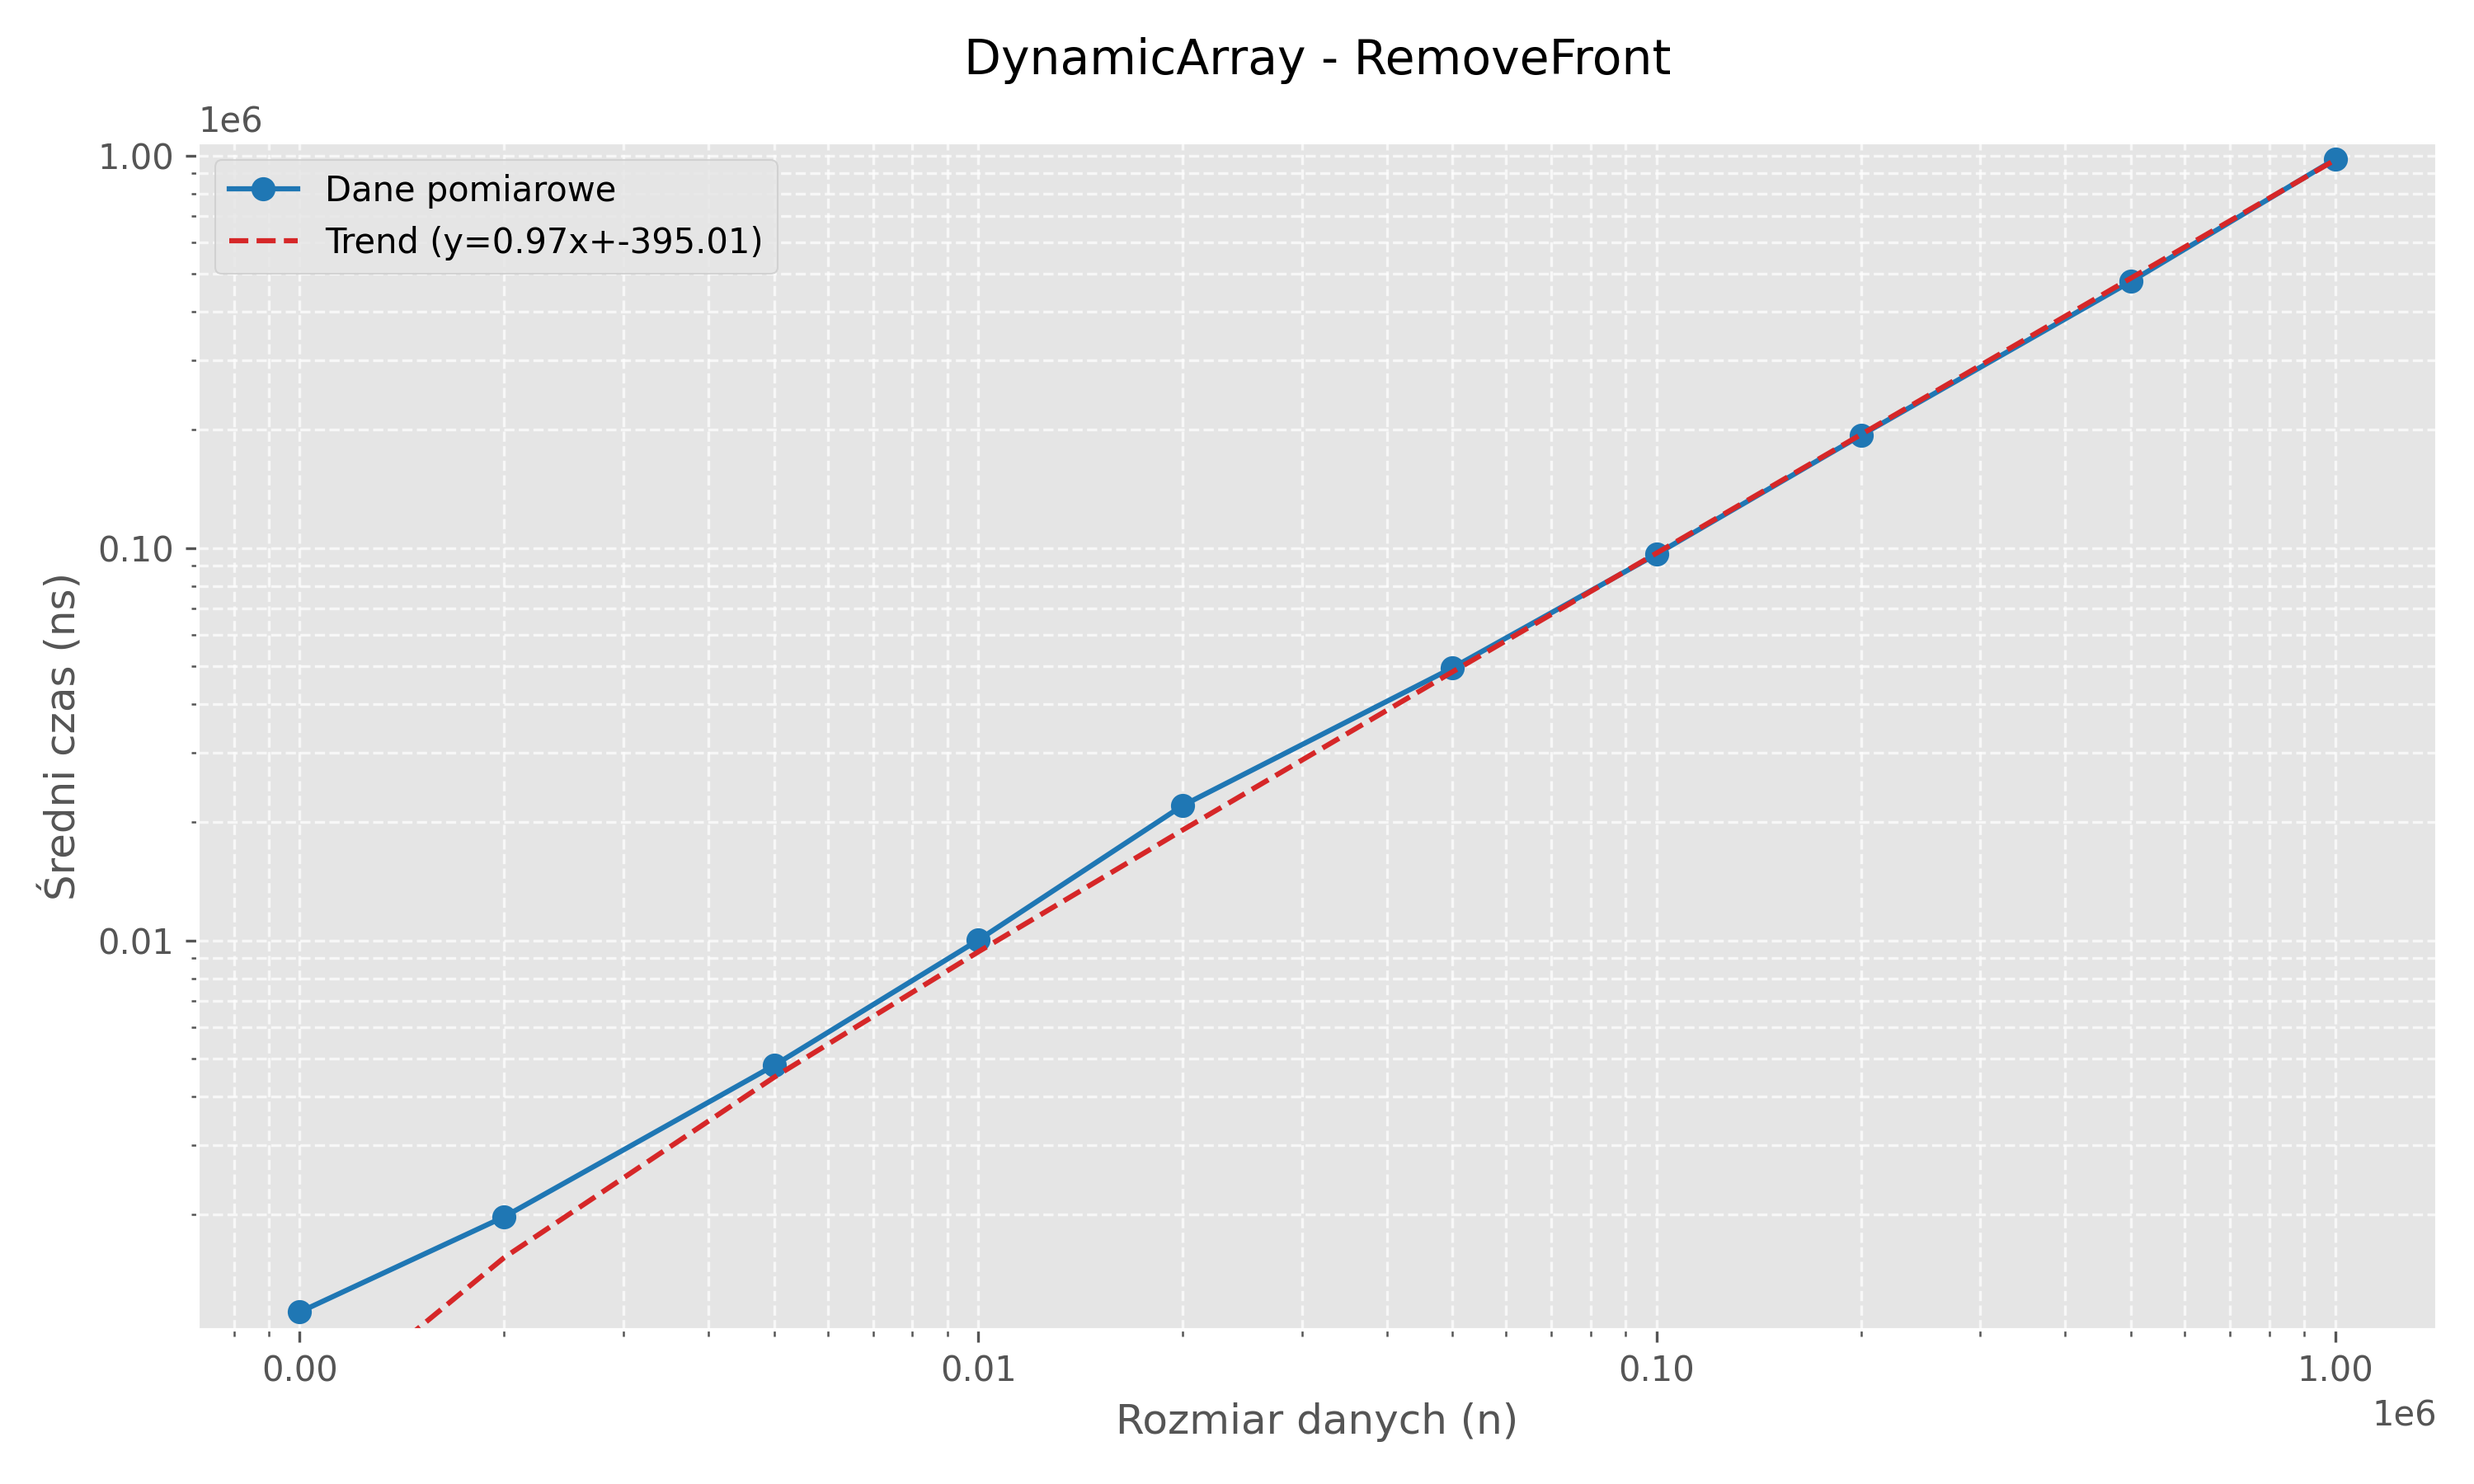
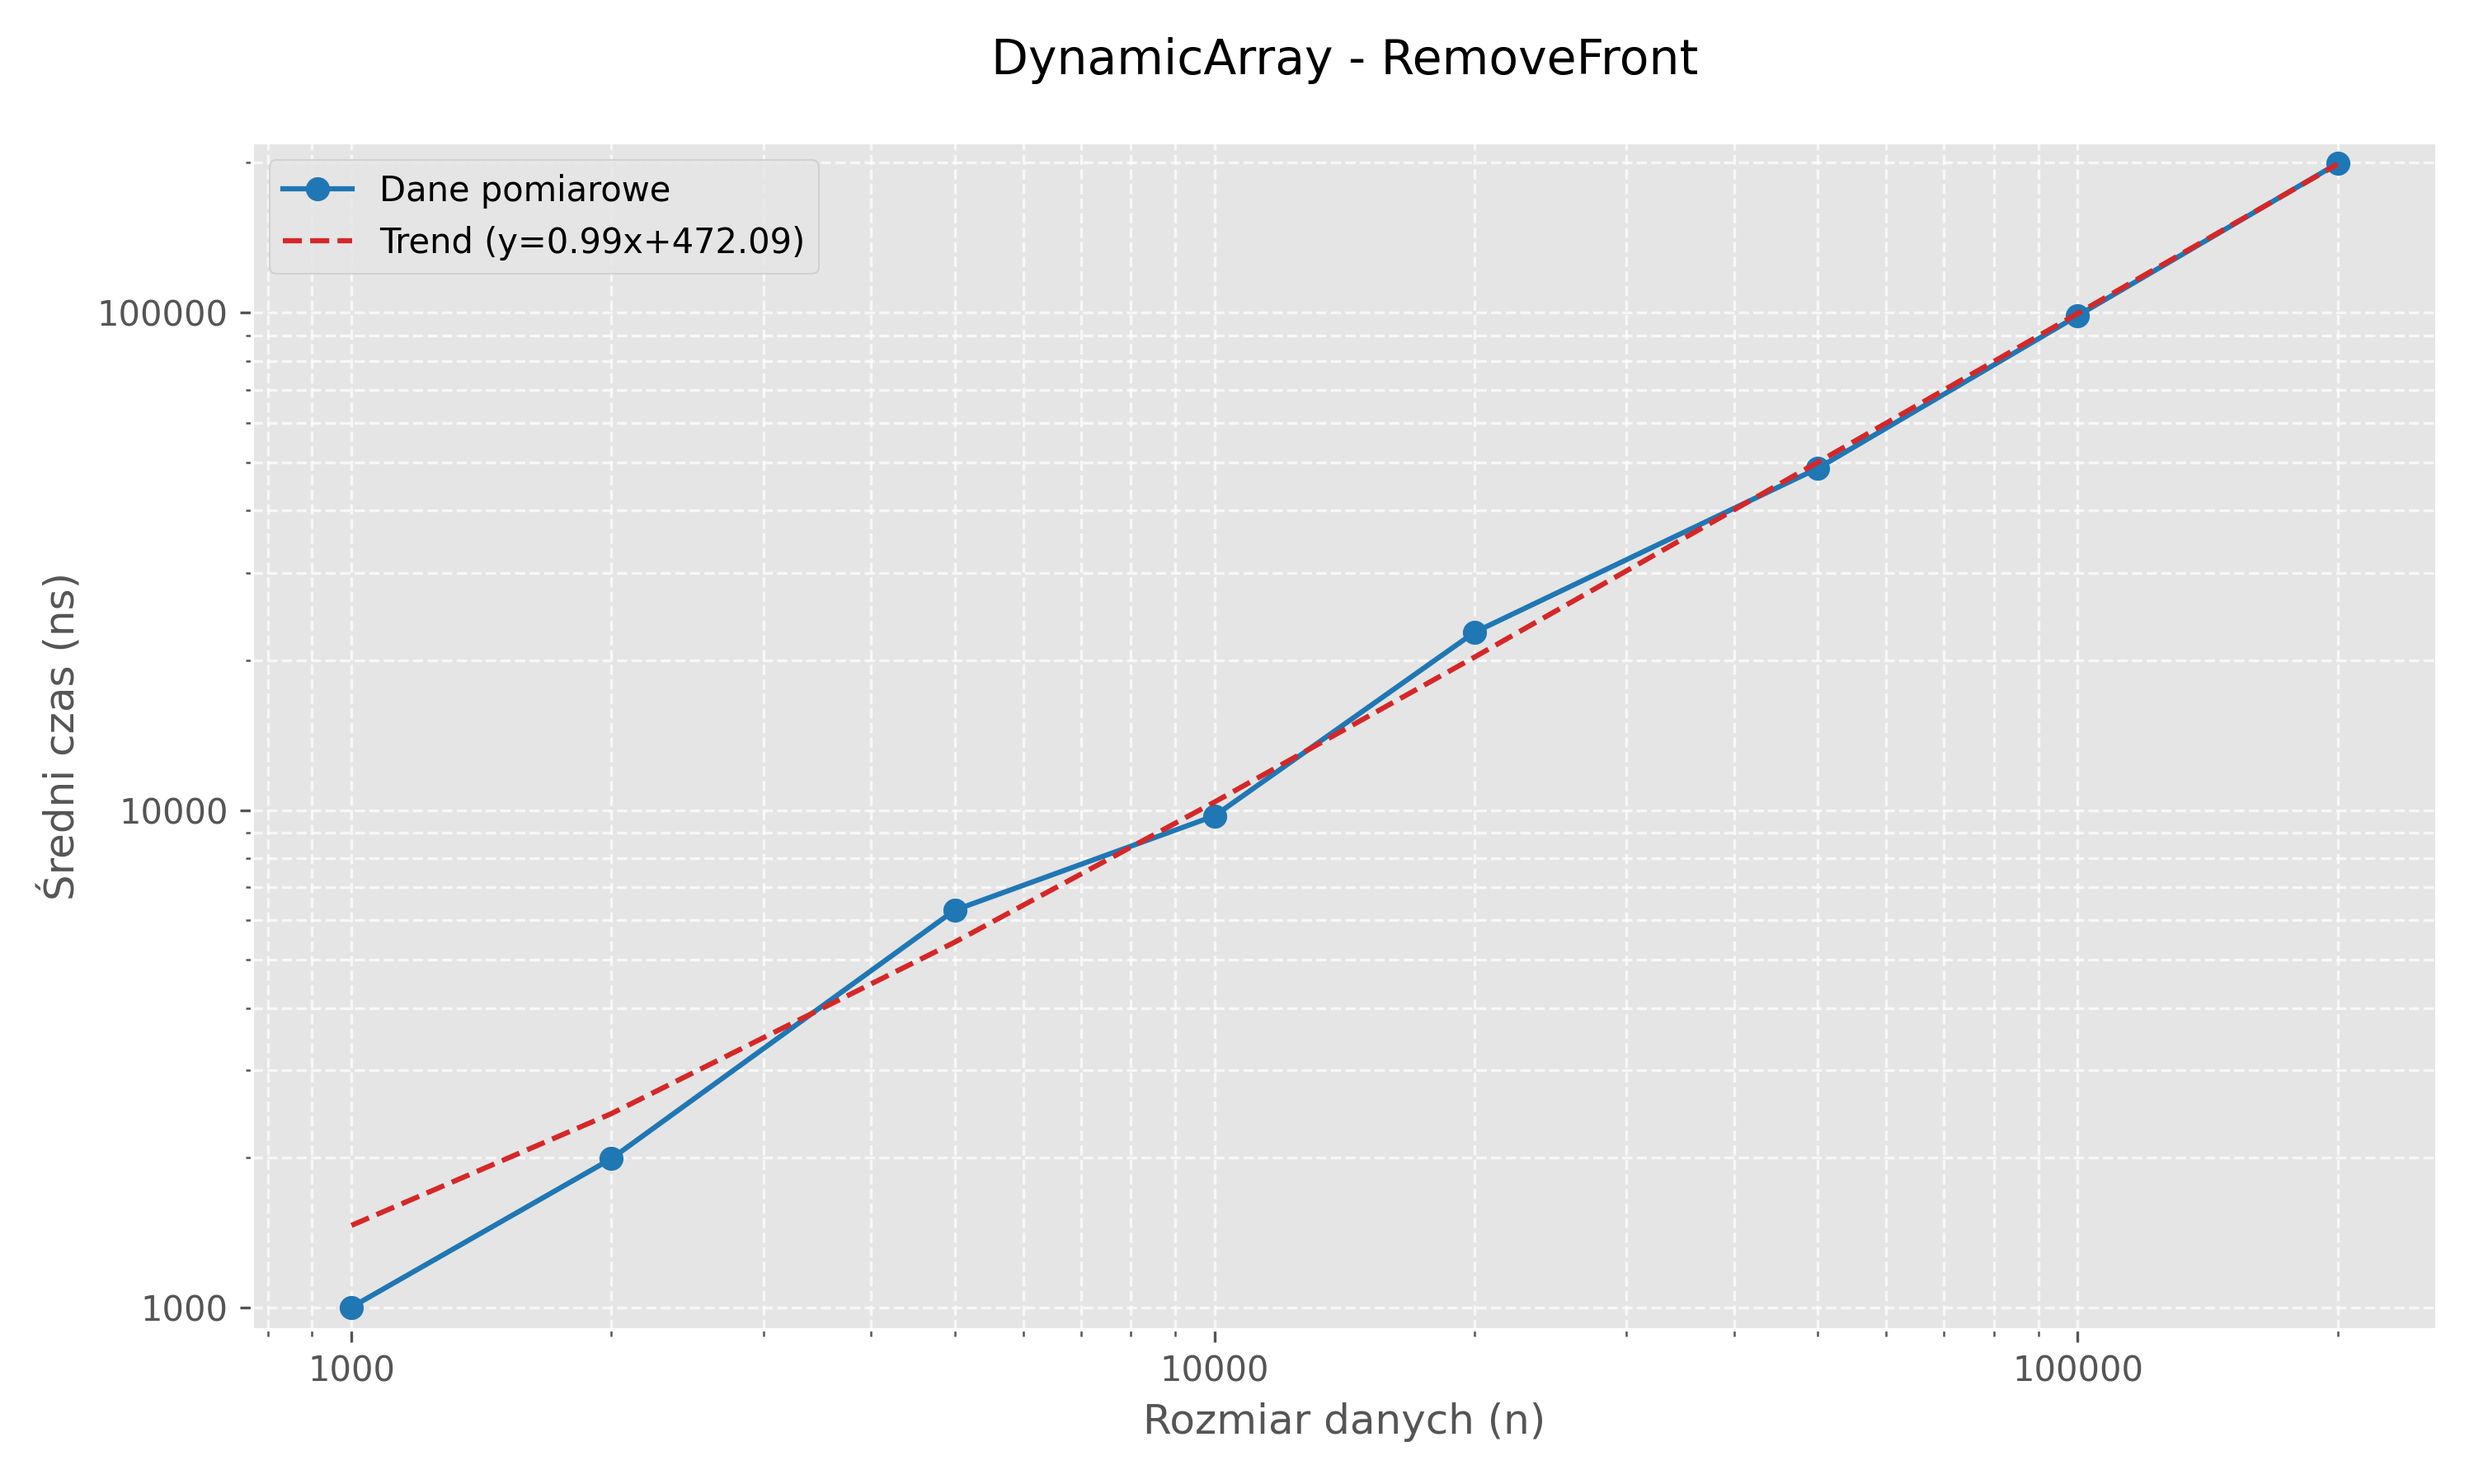
last changes

diff --git a/Projekt/benchmark.h b/Projekt/benchmark.h
@@ -29,7 +29,7 @@ void benchmarkDynamicArray() {
         "RemoveIndex.txt",
         "Search.txt",
     };
-    std::vector<int> iterations = { 1000,2000, 5000, 10000, 20000, 50000, 100000, 200000, 500000, 1000000 };
+    std::vector<int> iterations = { 1000, 2000, 5000, 10000, 20000, 50000, 100000, 200000 };
 
     for (size_t i = 0; i < names.size(); i++) {
         std::ofstream file(fileName + names[i]);
@@ -160,9 +160,9 @@ void benchmarkLinkedList() {
         "RemoveIndex.txt",
         "Search.txt",
     };
-    std::vector<int> iterations = { 1000, 5000, 10000, 50000, 100000 };
+    std::vector<int> iterations = { 1000, 2000, 5000, 10000, 20000, 50000, 100000, 200000 };
 
-    for (size_t i = 0; i < names.size(); i++) {
+    for (size_t i = 0; i < 3; i++) {
         std::ofstream file(fileName + names[i]);
         if (!file.is_open()) {
             std::cerr << "Failed to open file: " << fileName + names[i] << std::endl;

diff --git a/Projekt/main.cpp b/Projekt/main.cpp
@@ -26,6 +26,9 @@ int main() {
 
                 switch (operation) {
                 case 1: {
+#ifdef _MSC_VER  
+                    std::cout << "Kompilator MSVC, wersja: " << _MSC_VER << std::endl;
+#endif 
                     int value;
                     std::cout << "Enter value to add at front: ";
                     std::cin >> value;
